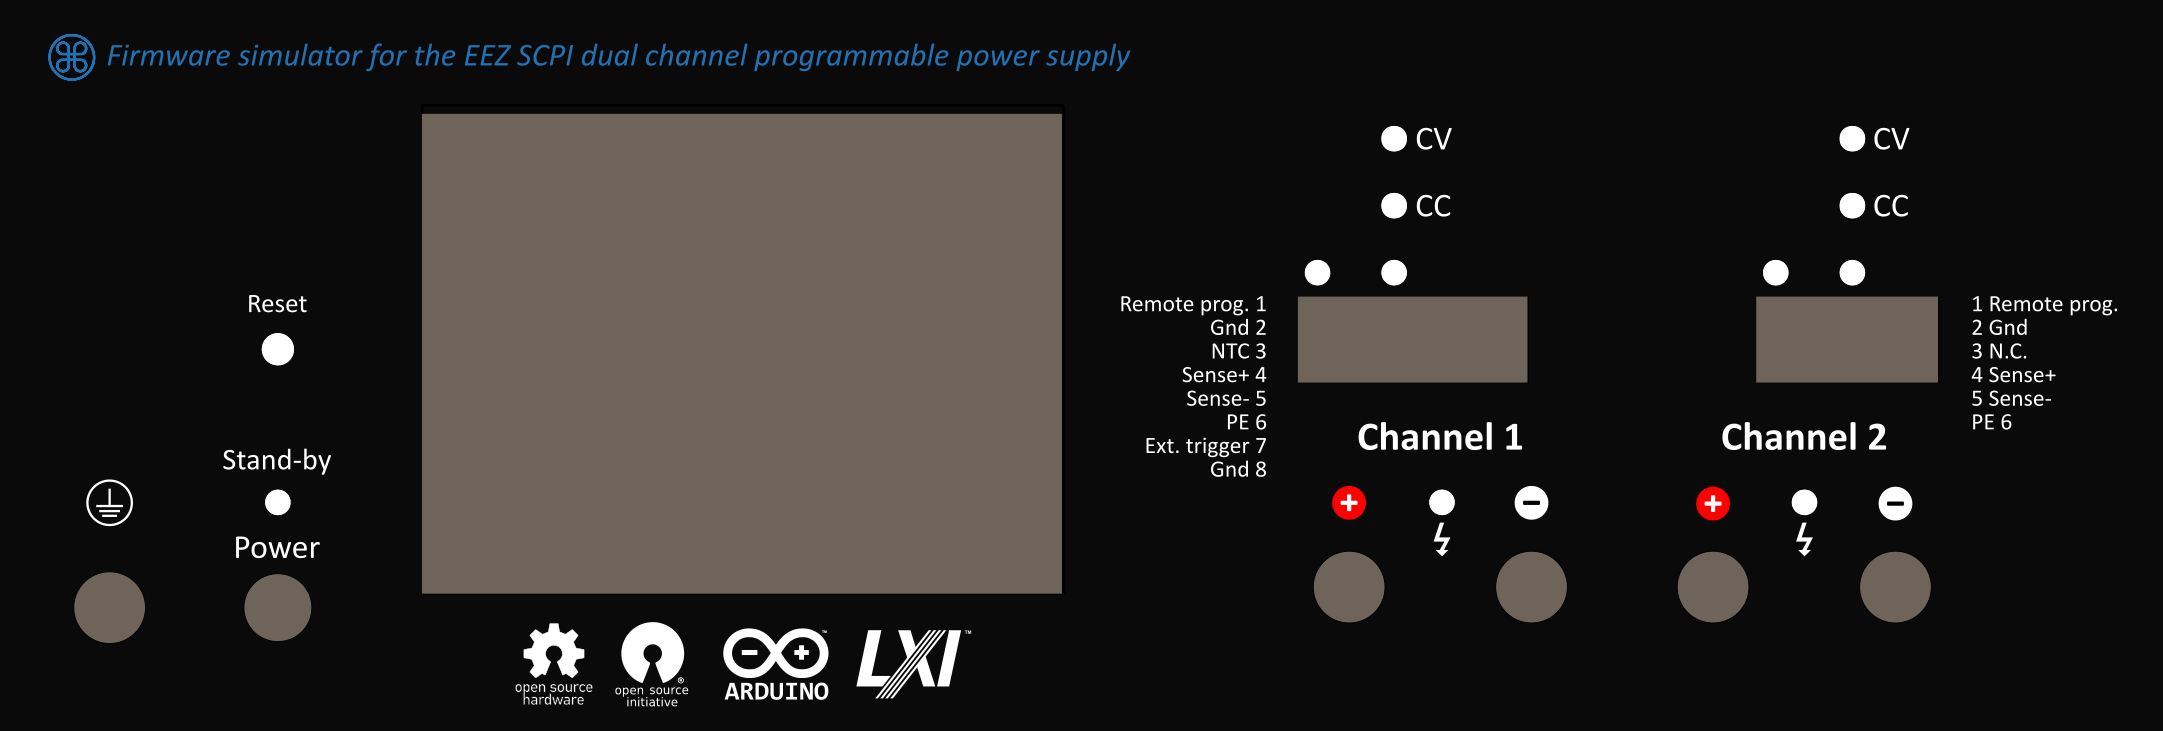
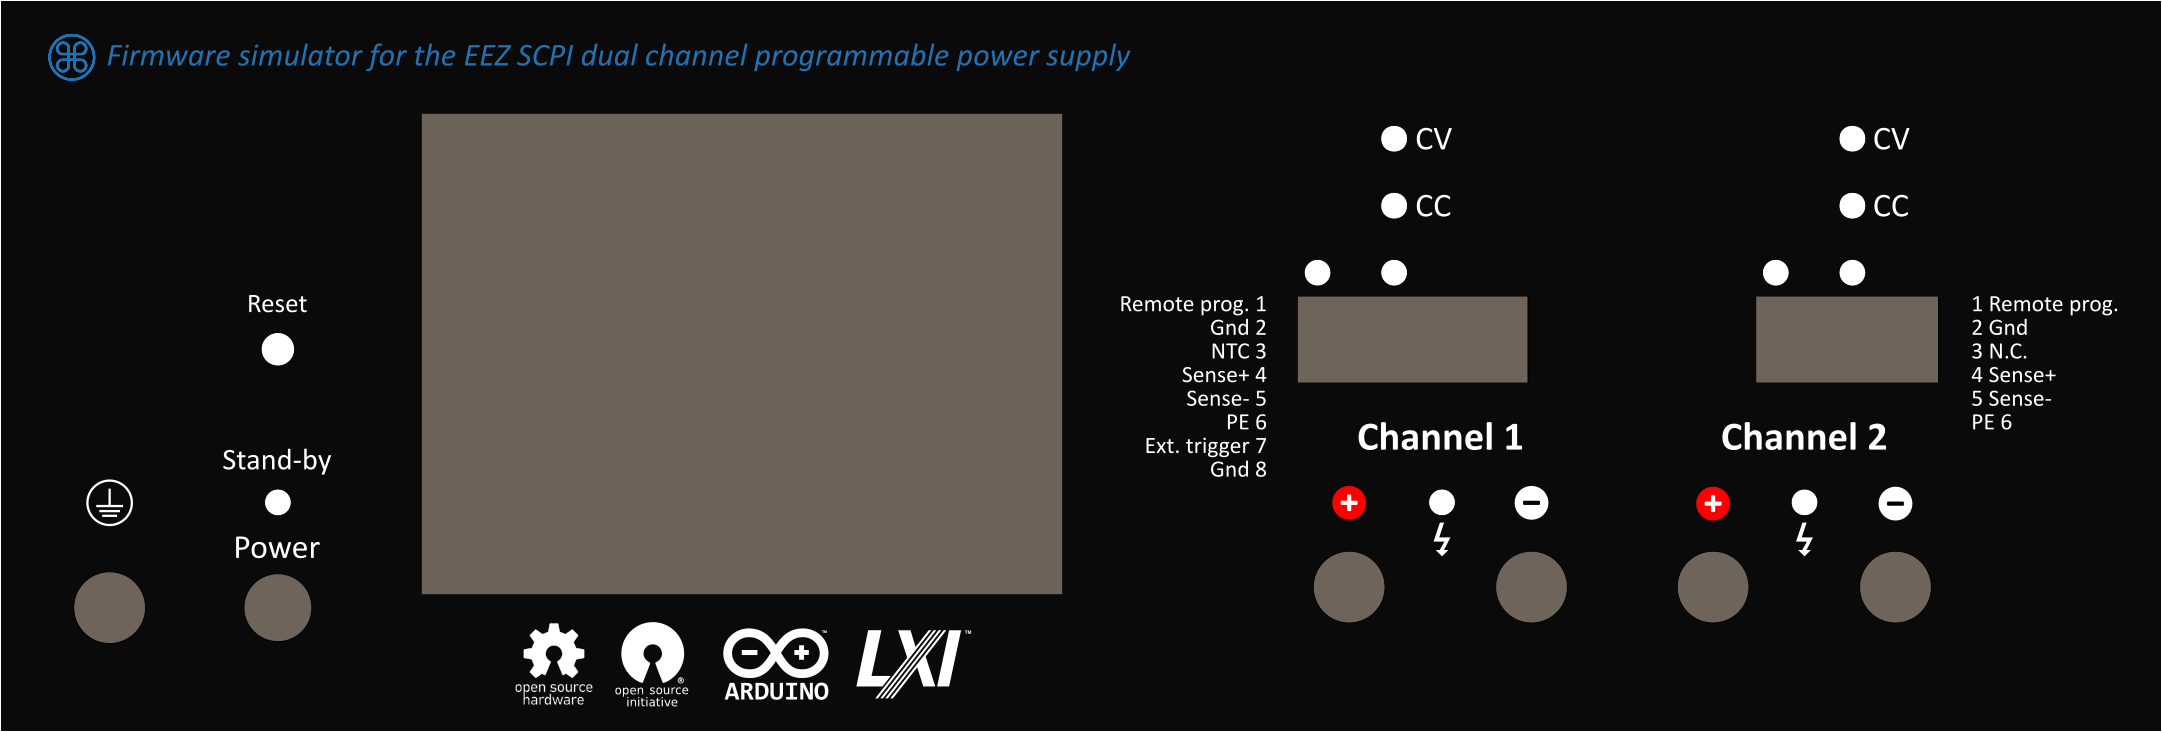
r2b9 large GUI

diff --git a/simulator/src/front_panel/render.cpp b/simulator/src/front_panel/render.cpp
@@ -29,54 +29,77 @@ namespace simulator {
 namespace front_panel {
 
 #if EEZ_PSU_SELECTED_REVISION == EEZ_PSU_REVISION_R1B9
-static WindowDefinition window_definition = {
+static WindowDefinition window_definition_small = {
 	"EEZ Software Simulator",
 	1475, 531,
 	10,
 	"eez.png"
 };
+
+static WindowDefinition window_definition_large = window_definition_small;
 #elif EEZ_PSU_SELECTED_REVISION == EEZ_PSU_REVISION_R2B6
-static WindowDefinition window_definition = {
+static WindowDefinition window_definition_small = {
 	"EEZ Software Simulator",
 	1081, 366,
 	10,
 	"eez.png"
 };
+
+static WindowDefinition window_definition_large = {
+	"EEZ Software Simulator",
+	2 * 1081, 2 * 366,
+	10,
+	"eez.png"
+};
 #endif
 
-imgui::WindowDefinition *getWindowDefinition() {
-	return &window_definition;
+static int F = 1;
+
+#define D(x) (F * x)
+#define RECT(x, y, w, h) D(x), D(y), D(w), D(h)
+
+#define R1B9_IMAGE(IMAGE) "r1b9/"##IMAGE##".png"
+#define R2B6_IMAGE(IMAGE) (F == 1 ? "r2b6/small/"##IMAGE##".png" : "r2b6/large/"##IMAGE##".png")
+
+imgui::WindowDefinition *getWindowDefinition(int w, int h) {
+	if (w >= SIM_FRONT_PANEL_LARGE_MODE_MIN_WIDTH) {
+		F = 2;
+		return &window_definition_large;
+	} else {
+		F = 1;
+		return &window_definition_small;
+	}
 }
 
 void render(Window *window, Data *data) {
 #if EEZ_PSU_SELECTED_REVISION == EEZ_PSU_REVISION_R1B9
-    window->addImage(0, 0, 1475, 531, "r1b9/front-panel.png");
+    window->addImage(0, 0, 1475, 531, R1B9_IMAGE("front-panel"));
 
-    window->addOnOffImage(878, 34, 17, 16, data->standby, "r1b9/led-blue.png", "r1b9/led-off.png");
+    window->addOnOffImage(878, 34, 17, 16, data->standby, R1B9_IMAGE("led-blue"), R1B9_IMAGE("led-off"));
 
-    window->addOnOffImage(878, 126, 17, 16, data->ch1.cv, "r1b9/led-yellow.png", "r1b9/led-off.png");
-    window->addOnOffImage(878, 172, 17, 16, data->ch1.cc, "r1b9/led-red.png", "r1b9/led-off.png");
-    window->addOnOffImage(983, 80, 17, 16, data->ch1.out_plus, "r1b9/led-green.png", "r1b9/led-off.png");
-    window->addOnOffImage(1071, 80, 17, 16, data->ch1.sense_plus, "r1b9/led-yellow.png", "r1b9/led-off.png");
-    window->addOnOffImage(1159, 80, 17, 16, data->ch1.sense_minus, "r1b9/led-yellow.png", "r1b9/led-off.png");
-    window->addOnOffImage(1247, 80, 17, 16, data->ch1.out_minus, "r1b9/led-green.png", "r1b9/led-off.png");
+    window->addOnOffImage(878, 126, 17, 16, data->ch1.cv, R1B9_IMAGE("led-yellow"), R1B9_IMAGE("led-off"));
+    window->addOnOffImage(878, 172, 17, 16, data->ch1.cc, R1B9_IMAGE("led-red"), R1B9_IMAGE("led-off"));
+    window->addOnOffImage(983, 80, 17, 16, data->ch1.out_plus, R1B9_IMAGE("led-green"), R1B9_IMAGE("led-off"));
+    window->addOnOffImage(1071, 80, 17, 16, data->ch1.sense_plus, R1B9_IMAGE("led-yellow"), R1B9_IMAGE("led-off"));
+    window->addOnOffImage(1159, 80, 17, 16, data->ch1.sense_minus, R1B9_IMAGE("led-yellow"), R1B9_IMAGE("led-off"));
+    window->addOnOffImage(1247, 80, 17, 16, data->ch1.out_minus, R1B9_IMAGE("led-green"), R1B9_IMAGE("led-off"));
     if (data->ch1.load_text) {
-        window->addImage(992, 184, 266, 71, "r1b9/load.png");
+        window->addImage(992, 184, 266, 71, R1B9_IMAGE("load"));
         window->addText(1047, 217, 156, 32, data->ch1.load_text);
     }
 
-    window->addOnOffImage(878, 366, 17, 16, data->ch2.cv, "r1b9/led-yellow.png", "r1b9/led-off.png");
-    window->addOnOffImage(878, 412, 17, 16, data->ch2.cc, "r1b9/led-red.png", "r1b9/led-off.png");
-    window->addOnOffImage(983, 324, 17, 16, data->ch2.out_plus, "r1b9/led-green.png", "r1b9/led-off.png");
-    window->addOnOffImage(1071, 324, 17, 16, data->ch2.sense_plus, "r1b9/led-yellow.png", "r1b9/led-off.png");
-    window->addOnOffImage(1159, 324, 17, 16, data->ch2.sense_minus, "r1b9/led-yellow.png", "r1b9/led-off.png");
-    window->addOnOffImage(1247, 324, 17, 16, data->ch2.out_minus, "r1b9/led-green.png", "r1b9/led-off.png");
+    window->addOnOffImage(878, 366, 17, 16, data->ch2.cv, R1B9_IMAGE("led-yellow"), R1B9_IMAGE("led-off"));
+    window->addOnOffImage(878, 412, 17, 16, data->ch2.cc, R1B9_IMAGE("led-red"), R1B9_IMAGE("led-off"));
+    window->addOnOffImage(983, 324, 17, 16, data->ch2.out_plus, R1B9_IMAGE("led-green"), R1B9_IMAGE("led-off"));
+    window->addOnOffImage(1071, 324, 17, 16, data->ch2.sense_plus, R1B9_IMAGE("led-yellow"), R1B9_IMAGE("led-off"));
+    window->addOnOffImage(1159, 324, 17, 16, data->ch2.sense_minus, R1B9_IMAGE("led-yellow"), R1B9_IMAGE("led-off"));
+    window->addOnOffImage(1247, 324, 17, 16, data->ch2.out_minus, R1B9_IMAGE("led-green"), R1B9_IMAGE("led-off"));
     if (data->ch2.load_text) {
-        window->addImage(992, 428, 266, 71, "r1b9/load.png");
+        window->addImage(992, 428, 266, 71, R1B9_IMAGE("load"));
         window->addText(1047, 461, 156, 32, data->ch2.load_text);
     }
 
-    data->reset = window->addButton(509, 398, 18, 18, "r1b9/reset-normal.png", "r1b9/reset-pressed.png");
+    data->reset = window->addButton(509, 398, 18, 18, R1B9_IMAGE("reset-normal"), R1B9_IMAGE("reset-pressed"));
 
     data->local_control_widget.x = 594;
     data->local_control_widget.y = 94;
@@ -85,37 +108,36 @@ void render(Window *window, Data *data) {
 
     window->addUserWidget(&data->local_control_widget);
 #elif EEZ_PSU_SELECTED_REVISION == EEZ_PSU_REVISION_R2B6
-    window->addImage(0, 0, 1081, 366, "r2b6/small/front-panel.png");
+    window->addImage(RECT(0, 0, 1081, 366), R2B6_IMAGE("front-panel"));
 
+    window->addOnOffImage(RECT(131, 243, 17, 17), data->standby, R2B6_IMAGE("led-blue"), R2B6_IMAGE("led-off"));
 
-    window->addOnOffImage(131, 243, 17, 17, data->standby, "r2b6/small/led-blue.png", "r2b6/small/led-off.png");
-
-    window->addOnOffImage(689, 61, 17, 17, data->ch1.cv, "r2b6/small/led-yellow.png", "r2b6/small/led-off.png");
-    window->addOnOffImage(689, 95, 17, 17, data->ch1.cc, "r2b6/small/led-red.png", "r2b6/small/led-off.png");
-    window->addOnOffImage(713, 243, 17, 17, data->ch1.out, "r2b6/small/led-green.png", "r2b6/small/led-off.png");
-    window->addOnOffImage(689, 128, 17, 17, data->ch1.sense, "r2b6/small/led-yellow.png", "r2b6/small/led-off.png");
-    window->addOnOffImage(650, 128, 17, 17, data->ch1.prog, "r2b6/small/led-red.png", "r2b6/small/led-off.png");
+    window->addOnOffImage(RECT(689, 61, 17, 17), data->ch1.cv, R2B6_IMAGE("led-yellow"), R2B6_IMAGE("led-off"));
+    window->addOnOffImage(RECT(689, 95, 17, 17), data->ch1.cc, R2B6_IMAGE("led-red"), R2B6_IMAGE("led-off"));
+    window->addOnOffImage(RECT(713, 243, 17, 17), data->ch1.out, R2B6_IMAGE("led-green"), R2B6_IMAGE("led-off"));
+    window->addOnOffImage(RECT(689, 128, 17, 17), data->ch1.sense, R2B6_IMAGE("led-yellow"), R2B6_IMAGE("led-off"));
+    window->addOnOffImage(RECT(650, 128, 17, 17), data->ch1.prog, R2B6_IMAGE("led-red"), R2B6_IMAGE("led-off"));
     if (data->ch1.load_text) {
-        window->addImage(652, 294, 138, 66, "r2b6/small/load.png");
-        window->addText(677, 326, 88, 29, data->ch1.load_text);
+        window->addImage(RECT(652, 294, 138, 66), R2B6_IMAGE("load"));
+        window->addText(RECT(677, 326, 88, 29), data->ch1.load_text);
     }
 
-    window->addOnOffImage(918, 61, 17, 17, data->ch2.cv, "r2b6/small/led-yellow.png", "r2b6/small/led-off.png");
-    window->addOnOffImage(918, 95, 17, 17, data->ch2.cc, "r2b6/small/led-red.png", "r2b6/small/led-off.png");
-    window->addOnOffImage(894, 243, 17, 17, data->ch2.out, "r2b6/small/led-green.png", "r2b6/small/led-off.png");
-    window->addOnOffImage(918, 128, 17, 17, data->ch2.sense, "r2b6/small/led-yellow.png", "r2b6/small/led-off.png");
-    window->addOnOffImage(879, 128, 17, 17, data->ch2.prog, "r2b6/small/led-red.png", "r2b6/small/led-off.png");
+    window->addOnOffImage(RECT(918, 61, 17, 17), data->ch2.cv, R2B6_IMAGE("led-yellow"), R2B6_IMAGE("led-off"));
+    window->addOnOffImage(RECT(918, 95, 17, 17), data->ch2.cc, R2B6_IMAGE("led-red"), R2B6_IMAGE("led-off"));
+    window->addOnOffImage(RECT(894, 243, 17, 17), data->ch2.out, R2B6_IMAGE("led-green"), R2B6_IMAGE("led-off"));
+    window->addOnOffImage(RECT(918, 128, 17, 17), data->ch2.sense, R2B6_IMAGE("led-yellow"), R2B6_IMAGE("led-off"));
+    window->addOnOffImage(RECT(879, 128, 17, 17), data->ch2.prog, R2B6_IMAGE("led-red"), R2B6_IMAGE("led-off"));
     if (data->ch2.load_text) {
-        window->addImage(834, 294, 138, 66, "r2b6/small/load.png");
-        window->addText(859, 326, 88, 29, data->ch2.load_text);
+        window->addImage(RECT(834, 294, 138, 66), R2B6_IMAGE("load"));
+        window->addText(RECT(859, 326, 88, 29), data->ch2.load_text);
     }
 
-	data->reset = window->addButton(129, 165, 20, 20, "r2b6/small/reset-normal.png", "r2b6/small/reset-pressed.png");
+	data->reset = window->addButton(RECT(129, 165, 20, 20), R2B6_IMAGE("reset-normal"), R2B6_IMAGE("reset-pressed"));
 
-    data->local_control_widget.x = 211;
-    data->local_control_widget.y = 57;
-    data->local_control_widget.w = 320;
-    data->local_control_widget.h = 240;
+    data->local_control_widget.x = D(211);
+    data->local_control_widget.y = D(57);
+    data->local_control_widget.w = D(320);
+    data->local_control_widget.h = D(240);
 
     window->addUserWidget(&data->local_control_widget);
 #endif

diff --git a/simulator/src/front_panel/control.cpp b/simulator/src/front_panel/control.cpp
@@ -49,6 +49,7 @@ namespace front_panel {
 static bool g_lib_loaded = false;
 static eez_dll_lib_t g_lib = 0;
 static create_window_ptr_t g_create_window_ptr = 0;
+static get_desktop_resolution_ptr_t g_get_desktop_resolution_ptr = 0;
 static Window* g_window;
 static Data g_data;
 
@@ -62,6 +63,7 @@ void load_lib() {
             if (!g_create_window_ptr) {
                 printf("Incompatible GUI library!\n");
             }
+			g_get_desktop_resolution_ptr = (get_desktop_resolution_ptr_t)eez_dll_get_proc_address(g_lib, "eez_imgui_get_desktop_resolution");
             g_beep_ptr = (beep_ptr_t)eez_dll_get_proc_address(g_lib, "eez_imgui_beep");
         }
         else {
@@ -85,8 +87,11 @@ bool open() {
     if (!g_create_window_ptr) {
         return false;
     }
+
+	int w, h;
+	g_get_desktop_resolution_ptr(&w, &h);
     
-    g_window = g_create_window_ptr(getWindowDefinition());
+    g_window = g_create_window_ptr(getWindowDefinition(w, h));
 
     if (!persist_conf::dev_conf.gui_opened) {
         persist_conf::dev_conf.gui_opened = true;

diff --git a/simulator/src/front_panel/data.cpp b/simulator/src/front_panel/data.cpp
@@ -167,8 +167,8 @@ void processData(Data *data) {
         data->local_control_widget.mouse_data.down_y < data->local_control_widget.h) 
     {
         is_down = true;
-        x = data->local_control_widget.mouse_data.x;
-        y = data->local_control_widget.mouse_data.y;
+        x = (int)round(data->local_control_widget.mouse_data.x / (1.0 * data->local_control_widget.w / data->local_control_widget.pixels_w));
+        y = (int)round(data->local_control_widget.mouse_data.y / (1.0 * data->local_control_widget.h / data->local_control_widget.pixels_h));
     }
 
     gui::touch::touch_write(is_down, x, y);

diff --git a/simulator/src/imgui/window.cpp b/simulator/src/imgui/window.cpp
@@ -327,6 +327,23 @@ void WindowImpl::addUserWidget(UserWidget *user_widget) {
 
 using namespace eez::imgui;
 
+EEZ_DLL_EXPORT int eez_imgui_get_desktop_resolution(int *w, int *h) {
+	SDL_Init(SDL_INIT_VIDEO);
+
+	SDL_DisplayMode dm;
+	if (SDL_GetDesktopDisplayMode(0, &dm) == 0) {
+		*w = dm.w;
+		*h = dm.h;
+
+		return 1;
+	}
+
+	*w = -1;
+	*h = -1;
+
+	return 0;
+}
+
 EEZ_DLL_EXPORT Window *eez_imgui_create_window(WindowDefinition *windowDefinition) {
     Window *window = new Window(windowDefinition);
 

diff --git a/simulator/src/front_panel/render.h b/simulator/src/front_panel/render.h
@@ -31,7 +31,7 @@ namespace psu {
 namespace simulator {
 namespace front_panel {
 
-imgui::WindowDefinition *getWindowDefinition();
+imgui::WindowDefinition *getWindowDefinition(int w, int h);
 void render(imgui::Window *window, Data *data);
 
 }

diff --git a/simulator/src/imgui/window.h b/simulator/src/imgui/window.h
@@ -78,6 +78,7 @@ private:
 };
 
 typedef Window *(*create_window_ptr_t)(WindowDefinition *windowDefinition);
+typedef int (*get_desktop_resolution_ptr_t)(int *w, int *h);
 
 }
 } // namespace eez::imgui

diff --git a/simulator/src/simulator_conf.h b/simulator/src/simulator_conf.h
@@ -29,3 +29,5 @@
 #define SIM_TEMP_MIN 0
 #define SIM_TEMP_DEF 25.0f
 #define SIM_TEMP_MAX 120.0f
+
+#define SIM_FRONT_PANEL_LARGE_MODE_MIN_WIDTH 2560
